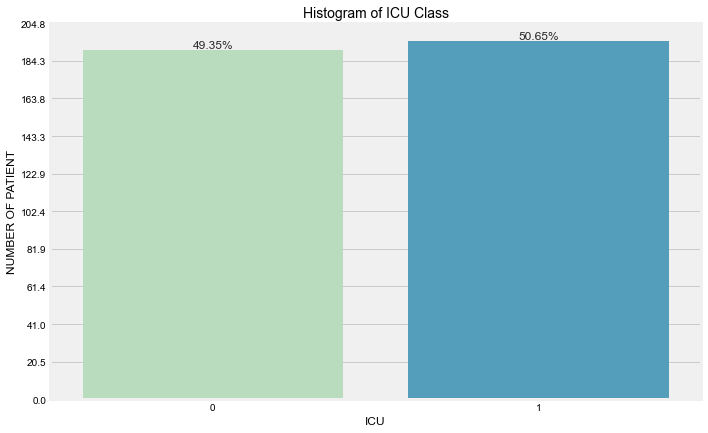
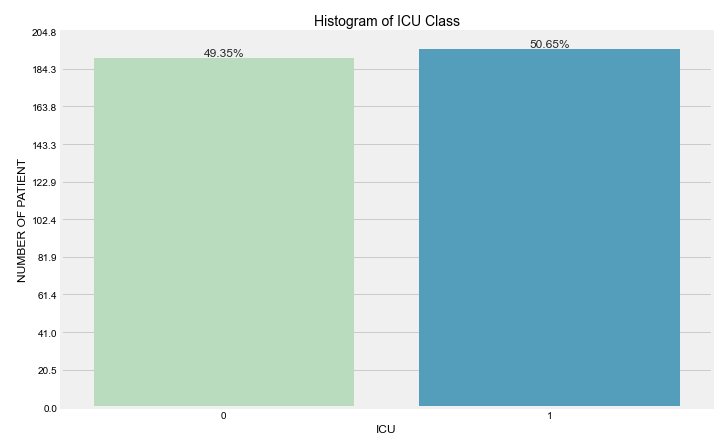
Change the image background from transparent to white

diff --git a/README.md b/README.md
@@ -1,35 +1,34 @@
 # Estimating the Probability of Confirmed COVID-19 Cases Taking into the Intensive Care Unit (ICU)
+
 This repository includes the slides and coding parts for this project.
 
 This project is carried out by *Eda AYDIN, Zilan EROL* under the supervision of *Engin Deniz ALPMAN* in the **[Data Science for the Public Good program](https://www.kodluyoruz.org/bootcamp/data-science-for-the-public-good-istanbul-ankara/)**
 
-The dataset of this project is obtained from the [Kaggle - COVID-19 - Clinical Data to assess diagnosis](https://www.kaggle.com/Sírio-Libanes/covid19) 
+The dataset of this project is obtained from the [Kaggle - COVID-19 - Clinical Data to assess diagnosis](https://www.kaggle.com/Sírio-Libanes/covid19)
 
 Note:  The data sets to be used in the project comply with the health-ethical rules and are suitable for use as a license.
 
 ## A. BUSINESS UNDERSTANDING
 
-
 > **Business Goal Declaration**
 
-The COVID-19 pandemic has caused us to rethink the organization of the health system, as it affects the whole world about the inadequacy of the health system. 
+The COVID-19 pandemic has caused us to rethink the organization of the health system, as it affects the whole world about the inadequacy of the health system.
 
-Some of the sentences we hear every day due to the increasing cases are 
+Some of the sentences we hear every day due to the increasing cases are
 
-* **“The occupancy of the intensive care unit is increasing”**, 
-* **“The intensive care units are full.”** 
+* **“The occupancy of the intensive care unit is increasing”**,
+* **“The intensive care units are full.”**
 
 pioneered this project.
 
-Based on these sentences, in this project, it will be determined whether the COVID-19 patient needs to be treated in the intensive care unit to preserve the health services system capacity. 
+Based on these sentences, in this project, it will be determined whether the COVID-19 patient needs to be treated in the intensive care unit to preserve the health services system capacity.
 
 We have two purposes here.
 
-1. Our first purpose is to give the most accurate answer to tertiary hospitals based on the available data, based on the patient's need for intensive care support. In this way, intensive care resources can be organized or patient transfer can be planned. 
-2. Our other purpose is to provide an accurate answer to local and temporary hospitals based on subsampling of widely available data and not needing intensive care support. Thus, physicians fighting on the front line can safely discharge patients and monitor them remotely. 
+1. Our first purpose is to give the most accurate answer to tertiary hospitals based on the available data, based on the patient's need for intensive care support. In this way, intensive care resources can be organized or patient transfer can be planned.
+2. Our other purpose is to provide an accurate answer to local and temporary hospitals based on subsampling of widely available data and not needing intensive care support. Thus, physicians fighting on the front line can safely discharge patients and monitor them remotely.
 
 The data sets to be used in the project comply with the health-ethical rules and are suitable for use as a license.
-
 
 > **Our Business Problem**
 
@@ -37,40 +36,50 @@ According to our declaraton of businness goal: our aim to predict admission to t
 
 ## B. DATA UNDERSTANDING
 
-- This dataset consists of:
-  - Patient demographic information
-  - Patient previous grouped diseases
-  - Blood results
-  - Vital signs
-    - Disalostic Blood Pressure
-    - Systolic Blood Pressure
-    - Heart Rate
-    - Respiratory Rate
-    - Temprature
-    - Oxygen Saturation
- 
---- 
-- This dataset includes:
-  - Number of rows: 1925
-  - Number of inpatients : 385
-  - Number of features 230 + 1(target)
-  - Each paient's medical record in different window intervals are located on 5 different rows.
- 
- ![dataset sall part](https://github.com/edaaydinea/Estimating-the-Probability-of-Confirmed-COVID-19-Cases-Taking-into-the-Intensive-Care-Unit-ICU-/blob/main/dataset_small_part.png)
- 
+* This dataset consists of:
+  * Patient demographic information
+  * Patient previous grouped diseases
+  * Blood results
+  * Vital signs
+    * Disalostic Blood Pressure
+    * Systolic Blood Pressure
+    * Heart Rate
+    * Respiratory Rate
+    * Temprature
+    * Oxygen Saturation
+
+---
+
+* This dataset includes:
+  * Number of rows: 1925
+  * Number of inpatients : 385
+  * Number of features 230 + 1(target)
+  * Each paient's medical record in different window intervals are located on 5 different rows.
+
+ ![dataset small part](https://github.com/edaaydinea/Estimating-the-Probability-of-Confirmed-COVID-19-Cases-Taking-into-the-Intensive-Care-Unit-ICU-/blob/main/dataset_small_part.png)
+
  0 stands for negative and 1 stands for positive.
+
 * Patient with ID 1 experienced ICU admission in the first 2 hours from Hospital admission (0-2).
 * Patient with ID 2 experienced ICU admission after 12 hours from Hospital admission (ABOVE_12).
 * Patient with ID 11 experienced ICU admission between 6 and 12 hours from hospital admission (6 - 12)
 * Patients with ID 12 did not experienced ICU admission.
 * Patients with ID 14 experienced ICU admission between 4 and 6 hours from hospital admission (4 - 6)
 
-** PATIENT - ICU - WINDOW RELATIONSHIP (CUMULATIVE)**
+### PATIENT - ICU - WINDOW RELATIONSHIP (CUMULATIVE)
 
-![](https://github.com/edaaydinea/Estimating-the-Probability-of-Confirmed-COVID-19-Cases-Taking-into-the-Intensive-Care-Unit-ICU-/blob/main/icu_admission_according_to_hours_window.png)
+![patient icu window relationship cumulative ](https://github.com/edaaydinea/Estimating-the-Probability-of-Confirmed-COVID-19-Cases-Taking-into-the-Intensive-Care-Unit-ICU-/blob/main/icu_admission_according_to_hours_window.png)
 
 * Number of patients admitted to the ICU between:
   * 0-2 hours: 32
   * 2-4 hours: 27
-  * 
+  * 4-6 hours: 40
+  * 6-12 hours: 31
+  * above 12 hours: 65
+* Number of patients who experience ICU : 195
+* Number of patients who don't experience ICU: 190
+* Number of patients who back to the normal stage after the admission to ICU: 0
 
+### ICU distribution by number of patients
+
+![]()
